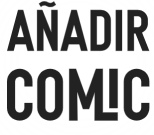
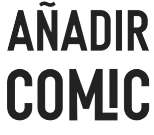
Todas las imagenes y primer vista añadir
Agregue todas las imagenes del proyecto y la primer vista de añadir

diff --git a/public/css/estilos.css b/public/css/estilos.css
@@ -84,7 +84,7 @@ html{
 .foot{
     width: 100%;
     background-image: linear-gradient(0deg, #cacbc9 0, #a5a2ad 50%, #7f7c92 100%);
-    position: absolute;
+    /* position: absolute; */
     bottom: 0;
 }
 
@@ -122,4 +122,128 @@ html{
     padding: 5px 5px;
     border: 3px solid #000;
     font-size: 20px;
+}
+
+.titulo__img{
+    width: 100%;
+    display: flex;
+    justify-content: center;
+    text-align: center;
+}
+
+.titulo__pic{
+    margin: 10px 0;
+}
+
+.contenedor__forms{
+    width: 100%;
+    margin: 10px 0;
+    display: flex;
+    justify-content: center;
+}
+
+.form{
+    margin: 15px 0;
+    width: 80%;
+    border: 3px solid #000;
+}
+
+.form__row{
+    width: 100%;
+    display: block;
+    margin: 20px;
+    display: flex;
+    justify-content: center;
+}
+
+.form__label{
+    font-size: 25px;
+    width: 25%;
+    font-weight: 500;
+    color: transparent;
+    -webkit-text-stroke: 2px #000;
+    text-shadow: 0 0 0.2em #3b0086;
+}
+
+.form__input{
+    width: 60%;
+    font-size: 20px;
+    border: 2px solid #000;
+    transition: all .3s;
+}
+
+.form__input:focus{
+    width: 70%;
+    border: 2.5px solid #3b0086;
+}
+
+.form__foot{
+    display: flex;
+    justify-content: space-around;
+    padding: 15px 0;
+}
+
+.btn__form{
+    display: flex;
+    justify-content: center;
+    align-items: center;
+    transition: all .4s;
+}
+
+.form__img{
+    display: flex;
+    justify-content: center;
+    align-items: center;
+}
+
+.form__img-pic{
+    width: 120px;
+}
+
+.btn__form-img{
+    width: 120px;
+    display: block;
+    margin: 5px 0;
+}
+
+.btn__form-salir{
+    border: 0;
+    width: 100%;
+    font-size: 15px;
+    font-weight: 700;
+    color: #000;
+    padding: 9px 25px;
+    background: none;
+    border: 3px solid #fe3535;
+    border-radius: 25px;
+    cursor: pointer;
+    transition: 0.3s;
+}
+
+.btn__form-añadir{
+    border: 0;
+    width: 100%;
+    font-size: 15px;
+    font-weight: 700;
+    color: #000;
+    padding: 9px 25px;
+    background: none;
+    border: 3px solid #66bb00;
+    border-radius: 25px;
+    cursor: pointer;
+    transition: 0.3s;
+}
+
+.btn__form:hover{
+    scale: 1.1;
+}
+
+.btn__form-añadir:hover{
+    background: #66bb00;
+    color: #fff;
+}
+
+.btn__form-salir:hover{
+    background: #fe3535;
+    color: #fff;
 }

diff --git a/resources/views/agregarComic.blade.php b/resources/views/agregarComic.blade.php
@@ -1,0 +1,55 @@
+@extends('plantilla')
+
+    @section('titulo','Añadir Comics')
+
+    @section('contenido')
+
+    <div class="titulo__img">
+        <img src="{!! asset('img/addComic.png') !!}" alt="Añadir Comic" class="titulo__pic">
+    </div>
+
+    <div class="contenedor__forms">
+        <form class="form" action="">
+            <div class="form__row">
+                <label class="form__label">Nombre</label>
+                <input type="text" class="form__input">
+            </div>
+            <div class="form__row">
+                <label class="form__label">Edición</label>
+                <input type="text" class="form__input">
+            </div>
+            <div class="form__row">
+                <label class="form__label">Compañía</label>
+                <input type="text" class="form__input">
+            </div>
+            <div class="form__row">
+                <label class="form__label">Cantidad</label>
+                <input type="text" class="form__input">
+            </div>
+            <div class="form__row">
+                <label class="form__label">Precio Compra</label>
+                <input type="text" class="form__input">
+            </div>
+            <div class="form__row">
+                <label class="form__label">Fecha de Ingreso</label>
+                <input type="text" class="form__input">
+            </div>
+            <div class="form__row">
+                <label class="form__label">Proovedor</label>
+                <input type="text" class="form__input">
+            </div>
+            <div class="form__foot">
+                <div class="btn__form">
+                    <a href=""><img src="{!! asset('img/salir.png') !!}" alt="Salir" class="btn__form-img"><button class="btn__form-salir">Salir</button></a>
+                </div>
+                <div class="form__img">
+                    <img src="{!! asset('img/comics.png') !!}" alt="Comics" class="form__img-pic">
+                </div>
+                <div class="btn__form">
+                    <a href=""><img src="{!! asset('img/continuar.png') !!}" alt="Continuar" class="btn__form-img"><button type="submit" class="btn__form-añadir">Añadir</button></a>
+                </div>
+            </div>
+        </form>
+    </div>
+
+    @endsection

diff --git a/routes/web.php b/routes/web.php
@@ -20,3 +20,8 @@ Route::get('/', function () {
 Route::get('menu', function () {
     return view('menu');
 });
+
+Route::get('agregarComic', function () {
+    return view('agregarComic');
+});
+
